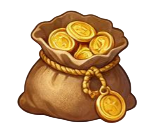
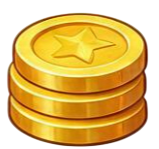
Add files via upload

diff --git a/index.html b/index.html
@@ -239,8 +239,11 @@
       music:           'assets/music.mp3',
       lider:           'assets/Lider.png',
       gold:            'assets/gold.png',
+      allgold:         'assets/allgold.png',
       bonus2:          'assets/bonus2.png',
-      bonus3:          'assets/bonus3.png'
+      bonus3:          'assets/bonus3.png',
+      pause:           'assets/pause.png',
+      sound:           'assets/sound.png'
     };
 
     let titleNameImg = null;
@@ -258,14 +261,17 @@
     let bg3Img = null;
     let liderImg = null;
     let goldImg = null;
+    let allgoldImg = null;
+    let pauseImg = null;
+    let soundImg = null;
 
-    // 0 — жизнь (кокон), 1 — ×2 монеты 2500, 2 — магнит 7500
-    // 3 — ×2 высота 100000, 4 — 15000m (−50% пад. ×2×2), 5 — 25000m (все силы)
+    // 0 — жизнь, 1 — ×2 монеты, 2 — магнит, 3 — ×2 высота + не ломает платформы
+    // 4 — 15000m, 5 — 25000m все силы
     const CHAR_INFO = [
       { price: 0, unlock: 'free', label: 'Запасная жизнь' },
       { price: 2500, unlock: 'coins', label: '×2 монеты' },
       { price: 7500, unlock: 'coins', label: 'Магнит' },
-      { price: 100000, unlock: 'coins', label: '×2 высота' },
+      { price: 100000, unlock: 'coins', label: '×2 высота · крепкий' },
       { price: 0, unlock: 'height', heightReq: 15000, label: 'Медл. ×2 монеты' },
       { price: 0, unlock: 'height', heightReq: 25000, label: 'Все силы' }
     ];
@@ -287,6 +293,10 @@
     }
     function hasExtraLife() {
       return selectedCharacter === 0 || selectedCharacter === 5;
+    }
+    // 4-й персонаж: прыгает по разрушающимся и не ломает их
+    function hasSafeBreak() {
+      return selectedCharacter === 3;
     }
 
     const SECRET_CODES = {
@@ -452,6 +462,15 @@
     goldImg           = loadImageWithFallback([
       'assets/gold.png', 'assets/Gold.png', 'assets/GOLD.png'
     ]);
+    allgoldImg        = loadImageWithFallback([
+      'assets/allgold.png', 'assets/Allgold.png', 'assets/ALLGOLD.png'
+    ]);
+    pauseImg          = loadImageWithFallback([
+      'assets/pause.png', 'assets/Pause.png', 'assets/PAUSE.png'
+    ]);
+    soundImg          = loadImageWithFallback([
+      'assets/sound.png', 'assets/Sound.png', 'assets/SOUND.png'
+    ]);
 
     function isImageReady(img) {
       return img && img.complete && img.naturalWidth > 0;
@@ -561,8 +580,9 @@
     }
 
     // Координаты UI-кнопок (нужны и для кликов, и для отрисовки)
-    const pauseBtn = { x: WIDTH - 50, y: 16, size: 36 };
-    const musicBtn = { x: WIDTH - 96, y: 16, size: 36 };
+    // sound правее, pause слева — крупнее
+    const musicBtn = { x: WIDTH - 56, y: 10, size: 48 };
+    const pauseBtn = { x: WIDTH - 112, y: 10, size: 48 };
     const pauseMenuBtns = { continue: null, menu: null };
 
     function isHudClick(mx, my) {
@@ -1456,7 +1476,7 @@
             } else {
               playJumpSound();
             }
-            if (p.type === 'breaking') {
+            if (p.type === 'breaking' && !hasSafeBreak()) {
               p.broken = true;
               p.breakTimer = 0;
             }
@@ -2181,19 +2201,15 @@
         : 'rgba(0,0,0,0.35)';
       roundRect(12 + coinOx, 12 + coinOy, coinPanelW, 32, 10);
       ctx.fill();
-      if (isImageReady(goldImg)) {
-        ctx.drawImage(goldImg, 16 + coinOx, 15 + coinOy, 24, 24);
-      } else {
-        ctx.fillStyle = '#FFD700';
-        ctx.beginPath();
-        ctx.arc(28 + coinOx, 28 + coinOy, 10, 0, Math.PI * 2);
-        ctx.fill();
+      const titleCoinIcon = isImageReady(allgoldImg) ? allgoldImg : goldImg;
+      if (isImageReady(titleCoinIcon)) {
+        drawSprite(titleCoinIcon, 28 + coinOx, 28 + coinOy, 26, 26);
       }
       ctx.fillStyle = secretFlashTimer > 0 ? '#fff' : '#FFE082';
       ctx.font = 'bold 16px Segoe UI';
       ctx.textAlign = 'left';
       ctx.textBaseline = 'middle';
-      ctx.fillText('× ' + totalCoins, 44 + coinOx, 28 + coinOy);
+      ctx.fillText('× ' + totalCoins, 46 + coinOx, 28 + coinOy);
       ctx.textBaseline = 'alphabetic';
       if (secretFlashTimer > 0) {
         ctx.fillStyle = '#FFD700';
@@ -2444,12 +2460,12 @@
 
       drawPlayer();
 
-      // Индикатор бонуса (полоска времени)
+      // Индикатор полёта — ниже рамки рекорда (topY 10 + h 48 + отступ)
       if (bonusActive) {
         const barW = 120;
         const barH = 10;
         const barX = (WIDTH - barW) / 2;
-        const barY = 60;
+        const barY = 68;
         const progress = bonusTimer / BONUS_DURATION;
 
         ctx.fillStyle = 'rgba(0,0,0,0.4)';
@@ -2539,49 +2555,52 @@
     function drawScoreHUD() {
       if (gameState !== 'playing') return;
 
-      // --- Слева вплотную к краю: монеты ---
-      const leftX = 2;
+      // Единая верхняя линия как у pause/sound (y=10, h=48)
       const topY = 10;
-      const iconSize = 28;
+      const barH = 48;
+      const leftX = 2;
+      const iconSize = 30;
 
-      ctx.fillStyle = 'rgba(0,0,0,0.35)';
-      roundRect(leftX, topY - 2, 112, 34, 8);
+      // --- Слева: монеты (высота как у кнопок) ---
+      ctx.fillStyle = 'rgba(0,0,0,0.28)';
+      roundRect(leftX, topY, 118, barH, 8);
       ctx.fill();
 
-      drawSprite(goldImg, leftX + 4 + iconSize / 2, topY + iconSize / 2, iconSize, iconSize);
+      const totalIcon = isImageReady(allgoldImg) ? allgoldImg : goldImg;
+      drawSprite(totalIcon, leftX + 6 + iconSize / 2, topY + barH / 2, iconSize, iconSize);
 
       ctx.fillStyle = '#FFE082';
       ctx.font = 'bold 16px Segoe UI, Arial';
       ctx.textAlign = 'left';
       ctx.textBaseline = 'middle';
-      ctx.fillText('× ' + totalCoins, leftX + iconSize + 10, topY + iconSize / 2);
+      ctx.fillText('× ' + totalCoins, leftX + iconSize + 12, topY + barH / 2);
       ctx.textBaseline = 'alphabetic';
 
-      // --- Центр: рекорд (крупно) + текущий счёт (мельче) ---
-      ctx.textAlign = 'center';
-      ctx.fillStyle = 'rgba(0,0,0,0.3)';
-      roundRect(WIDTH / 2 - 70, 12, 140, 52, 12);
+      // --- Центр: рекорд + текущий (та же высота и линия) ---
+      const scoreW = 150;
+      const scoreX = (WIDTH - scoreW) / 2;
+      ctx.fillStyle = 'rgba(0,0,0,0.28)';
+      roundRect(scoreX, topY, scoreW, barH, 8);
       ctx.fill();
 
-      // Иконка лидера + рекорд
-      const lx = WIDTH / 2 - 55;
+      ctx.textAlign = 'center';
+      ctx.textBaseline = 'middle';
+      // Рекорд сверху в рамке
       if (isImageReady(liderImg)) {
-        ctx.drawImage(liderImg, lx, 16, 22, 22);
+        drawSprite(liderImg, scoreX + 20, topY + 16, 20, 20);
       }
       ctx.fillStyle = '#fff';
-      ctx.font = 'bold 20px Segoe UI, Arial';
-      ctx.textBaseline = 'middle';
-      ctx.fillText(bestScore + ' m', WIDTH / 2 + 8, 27);
-
-      // Текущий счёт меньше
+      ctx.font = 'bold 16px Segoe UI, Arial';
+      ctx.fillText(bestScore + ' m', scoreX + scoreW / 2 + 8, topY + 16);
+      // Текущий счёт снизу в той же рамке
       ctx.fillStyle = 'rgba(255,255,255,0.75)';
-      ctx.font = '14px Segoe UI, Arial';
-      ctx.fillText(score + ' m', WIDTH / 2, 50);
+      ctx.font = '13px Segoe UI, Arial';
+      ctx.fillText(score + ' m', scoreX + scoreW / 2, topY + 34);
       ctx.textBaseline = 'alphabetic';
       ctx.textAlign = 'left';
 
-      // --- Магазин бонусов под монетами ---
-      drawBonusShop(leftX, topY + 36);
+      // --- Бонусы ниже верхней линии ---
+      drawBonusShop(leftX, topY + barH + 10);
     }
 
     function drawBonusShop(anchorX, anchorY) {
@@ -2691,61 +2710,37 @@
     }
 
     function drawHUDButtons() {
-      // --- Пауза (только в игре) ---
+      // --- Пауза (только в игре) — pause.png ---
       if (gameState === 'playing') {
         const { x, y, size } = pauseBtn;
-        ctx.fillStyle = 'rgba(0,0,0,0.35)';
+        ctx.fillStyle = 'rgba(0,0,0,0.28)';
         roundRect(x, y, size, size, 8);
         ctx.fill();
-
-        ctx.fillStyle = '#fff';
+        if (isImageReady(pauseImg)) {
+          drawSprite(pauseImg, x + size / 2, y + size / 2, size - 6, size - 6);
+        }
+        // Если на паузе — лёгкая подсветка
         if (isPaused) {
-          ctx.beginPath();
-          ctx.moveTo(x + 12, y + 10);
-          ctx.lineTo(x + 12, y + size - 10);
-          ctx.lineTo(x + size - 10, y + size / 2);
-          ctx.closePath();
-          ctx.fill();
-        } else {
-          ctx.fillRect(x + 11, y + 10, 5, size - 20);
-          ctx.fillRect(x + 20, y + 10, 5, size - 20);
+          ctx.strokeStyle = 'rgba(78, 205, 196, 0.7)';
+          ctx.lineWidth = 2;
+          roundRect(x, y, size, size, 8);
+          ctx.stroke();
         }
       }
 
-      // --- Музыка (титул + игра) ---
+      // --- Звук (титул + игра) — sound.png, правее ---
       if (gameState === 'title' || gameState === 'playing') {
         const { x, y, size } = musicBtn;
-        ctx.fillStyle = 'rgba(0,0,0,0.35)';
+        ctx.fillStyle = 'rgba(0,0,0,0.28)';
         roundRect(x, y, size, size, 8);
         ctx.fill();
-
-        ctx.fillStyle = musicEnabled ? '#fff' : '#ff6b6b';
-        // Иконка ноты / динамика
-        const cx = x + size / 2;
-        const cy = y + size / 2;
-        // Корпус динамика
-        ctx.beginPath();
-        ctx.moveTo(cx - 8, cy - 5);
-        ctx.lineTo(cx - 2, cy - 5);
-        ctx.lineTo(cx + 5, cy - 11);
-        ctx.lineTo(cx + 5, cy + 11);
-        ctx.lineTo(cx - 2, cy + 5);
-        ctx.lineTo(cx - 8, cy + 5);
-        ctx.closePath();
-        ctx.fill();
-
-        if (musicEnabled) {
-          // Волны звука
-          ctx.strokeStyle = '#fff';
-          ctx.lineWidth = 2;
-          ctx.beginPath();
-          ctx.arc(cx + 6, cy, 5, -0.7, 0.7);
-          ctx.stroke();
-          ctx.beginPath();
-          ctx.arc(cx + 6, cy, 9, -0.7, 0.7);
-          ctx.stroke();
-        } else {
-          // Перечёркнуто
+        if (isImageReady(soundImg)) {
+          ctx.save();
+          if (!musicEnabled) ctx.globalAlpha = 0.4;
+          drawSprite(soundImg, x + size / 2, y + size / 2, size - 6, size - 6);
+          ctx.restore();
+        }
+        if (!musicEnabled) {
           ctx.strokeStyle = '#ff6b6b';
           ctx.lineWidth = 2.5;
           ctx.beginPath();
